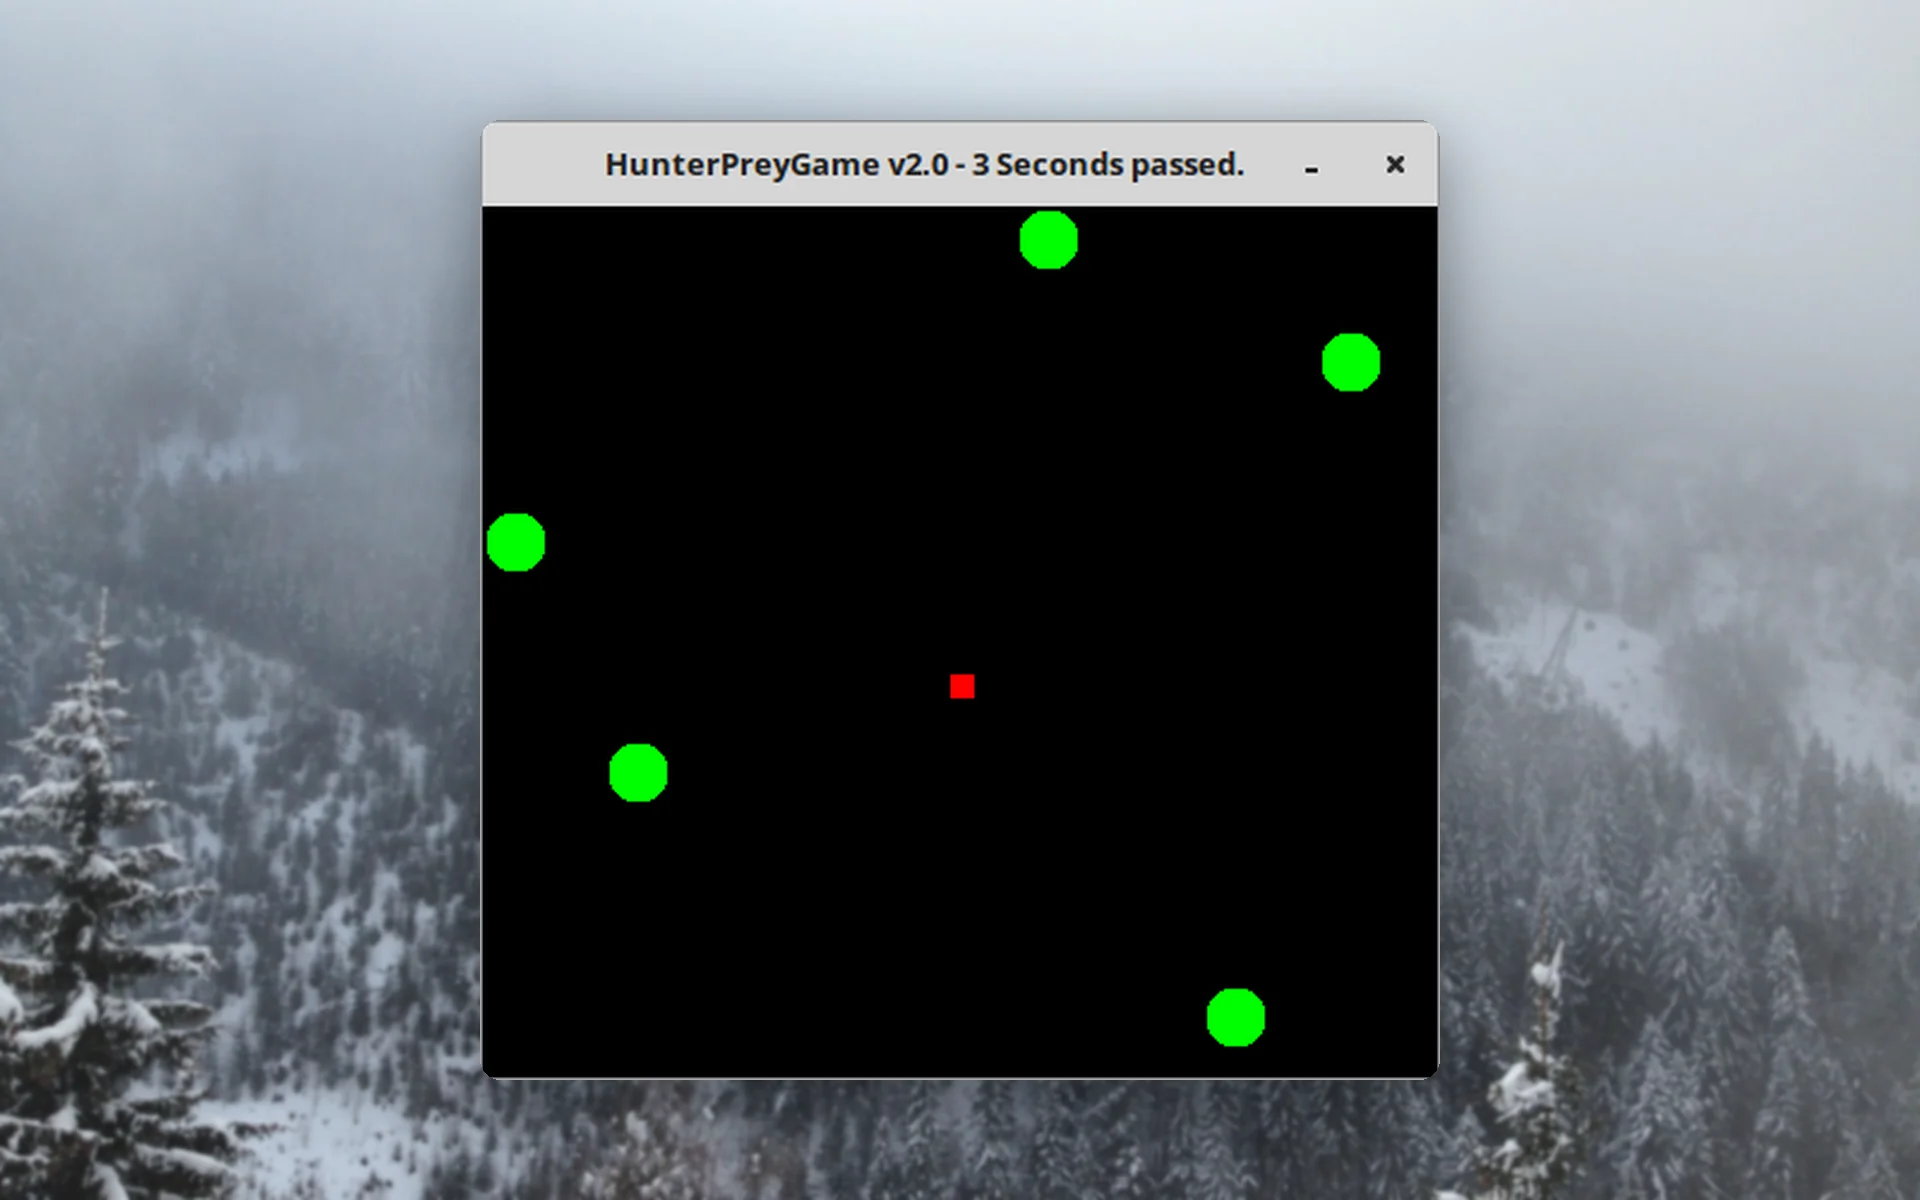
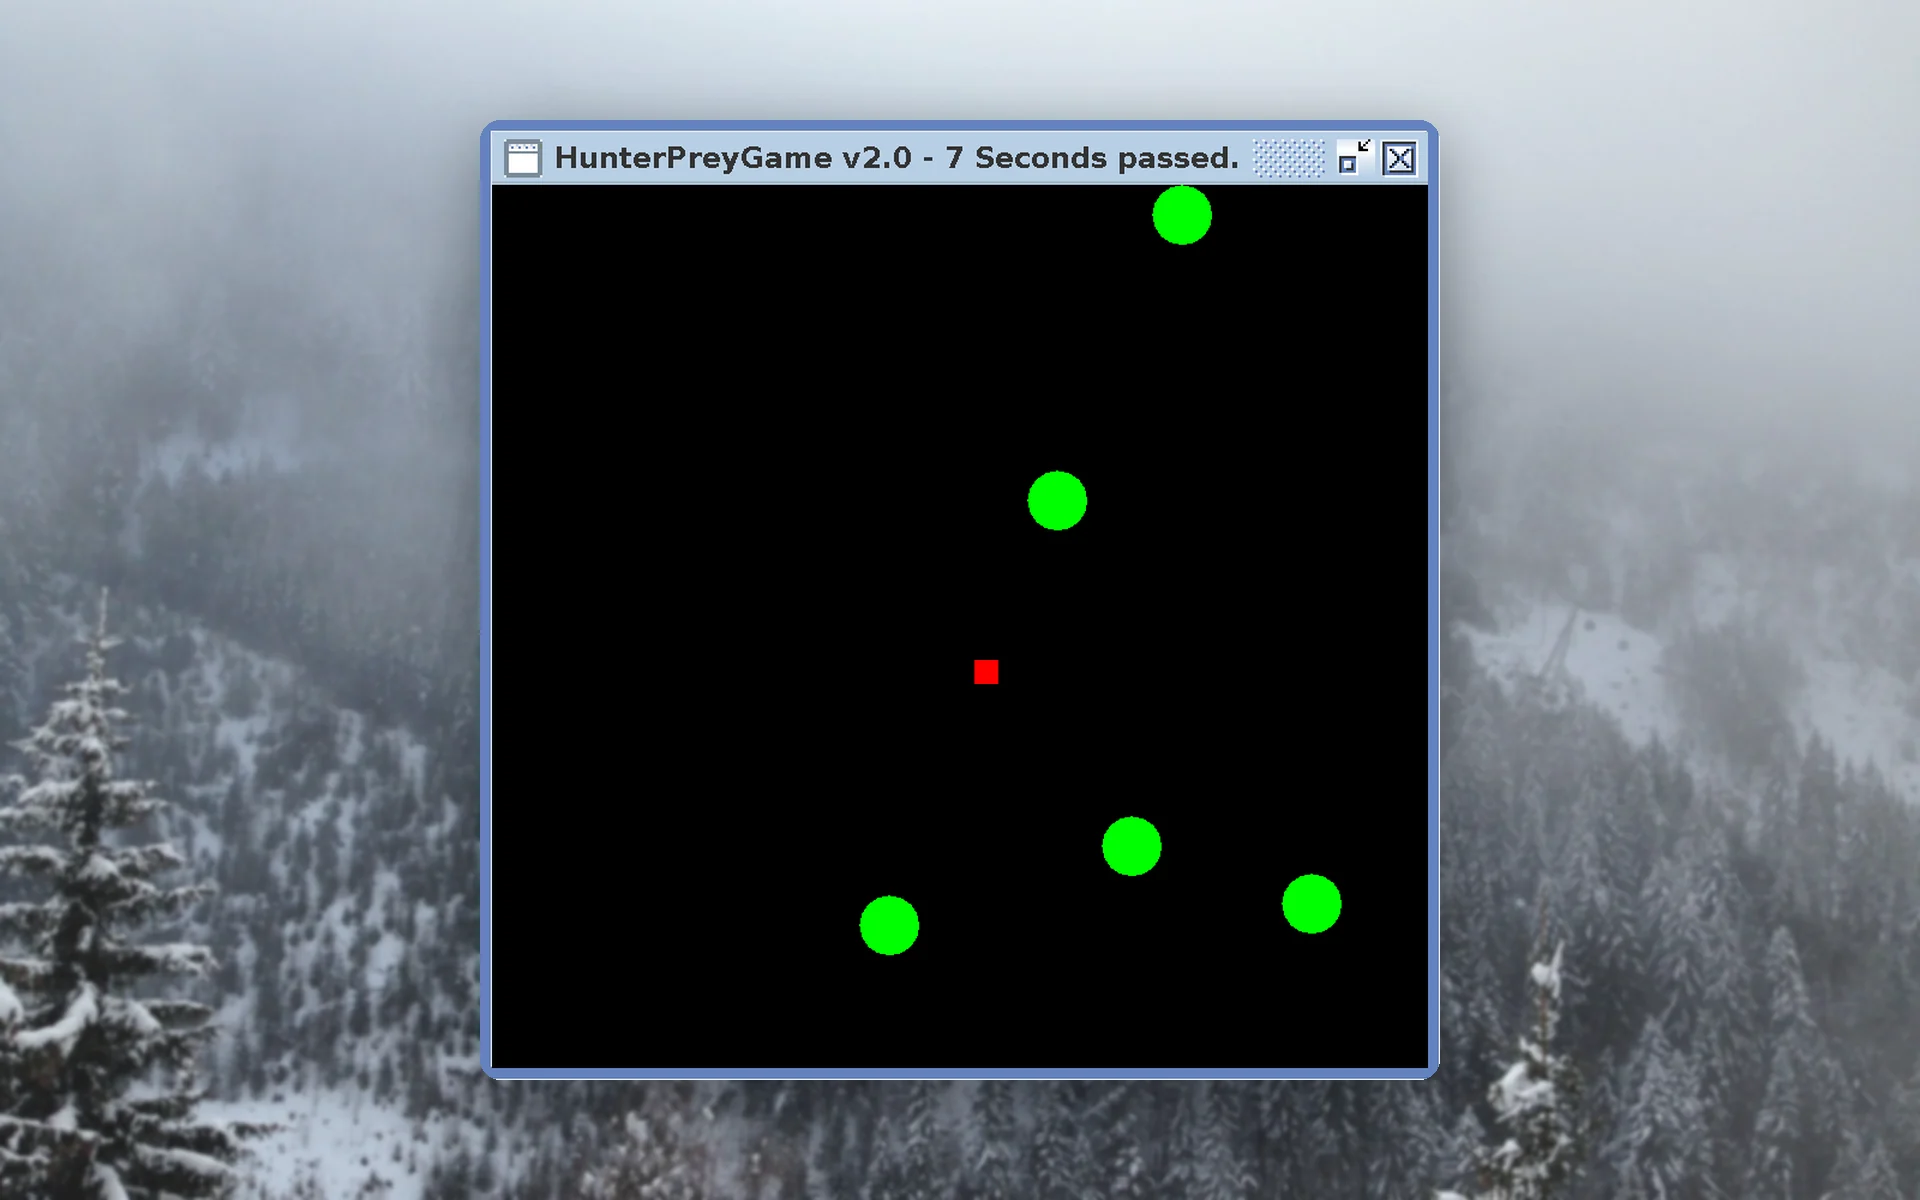
docs(readme): polish the readme visuals

diff --git a/README.md b/README.md
@@ -29,7 +29,7 @@
 <p align="center">
   <picture>
     <source media="(prefers-color-scheme: dark)" srcset="docs/assets/readme/hero-dark.webp">
-    <img src="docs/assets/readme/hero-light.webp" alt="The Hunter Prey Game window: a black playfield with five green circles and a small red square, and the title bar reading &quot;HunterPreyGame v2.0 - 3 Seconds passed.&quot;" width="960">
+    <img src="docs/assets/readme/hero-light.webp" alt="The Hunter Prey Game window: a black playfield with five green circles and a small red square, and the title bar reading &quot;HunterPreyGame v2.0 - 7 Seconds passed.&quot;" width="960">
   </picture>
 </p>
 
@@ -72,7 +72,7 @@ The whole game is four Java files.
     <td width="50%" valign="top">
       <picture>
         <source media="(prefers-color-scheme: dark)" srcset="docs/assets/readme/tour/over-dark.webp">
-        <img src="docs/assets/readme/tour/over-light.webp" alt="The game window with the title &quot;Game Over - Lived 88 secs -Closing in 10 secs&quot;">
+        <img src="docs/assets/readme/tour/over-light.webp" alt="The game window with the title &quot;Game Over - Lived 32 secs -Closing in 10 secs&quot;">
       </picture>
       <h3>Game over</h3>
       When a hunter touches the prey, the title shows how long you lived and the window closes ten seconds later.
